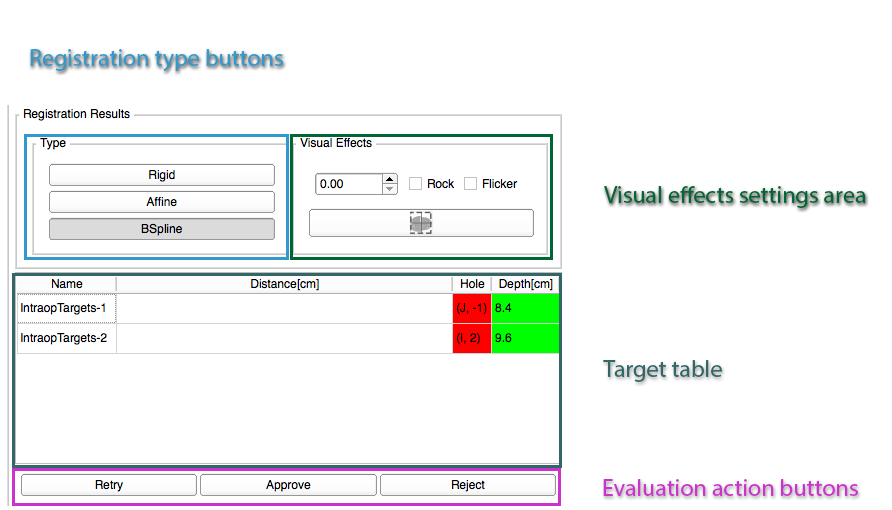
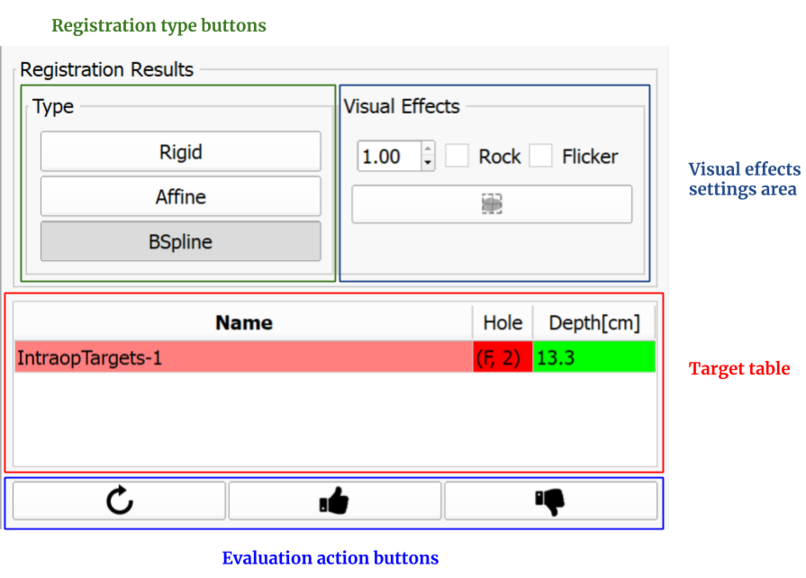
Creates assets/Slicer_gui_overview.png
Auto commit by GitBook Editor

Changed region(s): [[0.0, 0.0882, 0.9926, 1.0], [0.062, 0.0294, 0.3412, 0.0588]]

diff --git a/docs/user_guide/user_interface.md b/docs/user_guide/user_interface.md
@@ -4,7 +4,7 @@
 
 Once SliceTracker is opened, note the purpose of the various components of the application interface.
 
-![](../images/slicer_gui_overview.png)
+![](/assets/Slicer_gui_overview.png)
 
 1. **Main toolbar**: this area contains shortcut buttons for some of the general purpose functions of 3D Slicer
 
@@ -12,7 +12,7 @@ Once SliceTracker is opened, note the purpose of the various components of the a
 
 3. **Viewers**: configuration of this area, which contains combinations of 2-d/3-d viewer sub-areas, will be updated automatically depending on the specific step of the workflow. 
 
-4. **DataProbe panel**: this area can be used to check the coordinates of the cursor and the number of the currently visible slice.
+4. **Data Probe panel**: this area can be used to check the coordinates of the cursor and the number of the currently visible slice.
 
 5. **Progress reporting area**: in some steps of the workflow, this area will be used to report progress.
 
@@ -25,12 +25,12 @@ The overview mode allows user to create/load cases, trigger target tracking and 
 | User Interface Element | Description |
 | -- | -- |
 | Case/patient watch box | Displays information about the current patient, as well as relevant pre-operative and intra-operative imaging information. |
-| View options bar | Provides buttons for controlling the visibility of annotations, crosshair, Z-frame model, grid and computed needle path model. All supported layouts are available through buttons and a button is also included for `WindowLevelEffect`; for changing the window level with respect to fore -and background. ![View options bar](/assets/view_options.png)
+| View options bar | Provides buttons for controlling the visibility of annotations, crosshair, Z-frame model, and template grid. All supported layouts are available through buttons and a button is also included for `WindowLevelEffect`; for changing the window level with respect to fore -and background. A button for testing the DICOM connection is also available. ![View options bar](/assets/view_options.png)
 |
-| Case directory settings | This area includes a directory selector which represents the root directory for all cases. Furthermore when starting/loading a case, all directory information to that case are displayed in the directory watch box below the `Cases Root Directory` directory selector. |
+| Case directory settings | This area includes a directory selector which represents the root directory for all cases. Furthermore, when starting/loading a case, all directory information to that case are displayed in the directory watch box below the `Cases Root Directory` directory selector. |
 | Case action buttons | Action buttons for creating a new case, loading/continuing an existing case, or closing/completing a case. |
 | Training/Simulation area | These buttons simulate incoming transfer of DICOM images. It can be used for pre- and intra-procedural images. |
-| Target table | Once a case has been loaded and pre-procedural data has been processed, all set targets will be listed in that table. Additional to that, information about cursor distance, grid hole and depth for needle insertion are computed. |
+| Target table | Once a case has been loaded and pre-procedural data has been processed, all set targets will be listed in the table. Additionally, information about cursor distance, grid hole and depth for needle insertion are computed. |
 | Intra-procedural image selection/targeting | As soon as intra-procedural images are received and loaded, they will appear in the series selector combobox. Colors indicate the availability of registration results. Images can only be skipped in specific circumstances. `Cover Prostate` and `Cover Template` images cannot be skipped since they are essential for the whole process of registration. The buttons to the right of the selector are for allowing the user to change the series type, initiate tracking of targets, and skip the selected series, respectively. |
 
 ## Module settings
@@ -38,16 +38,17 @@ For accessing the module settings you will need to use ![](../images/Icons/icon-
 
 ![](/assets/module_settings.png)
 
-SliceTracker provides some module settings that needs to be changed in case of:
+SliceTracker provides some module settings that need to be changed in case of:
 * series description of the DICOM images differ from the one shown in the module settings
 * you want to use `demo mode` which hides patient specific information from SliceTracker (not yet from mpReview)
 * change the maximum rating score for registration results
 * you want to use a different color map 
+* you wish to change the segmentation method used
 
 ## Segmentation
-For initiating target tracking a segmentation mask needs to be created which covers the area of the prostate. The image below describes the user interface elements of that step.
+For initiating target tracking a segmentation mask needs to be created which covers the area of the prostate. The image below describes the user interface elements of that step (presented after segmentation if automatic segmentation is performed).
 
-![](../images/segmentation_interface.png)
+![](/assets/segmentation_interface.png)
 
 ## Registration evaluation 
 ![](../images/evaluation_interface.png)
@@ -55,6 +56,6 @@ For initiating target tracking a segmentation mask needs to be created which cov
 | User Interface Element | Description |
 | -- | -- |
 | Registration type buttons | All different registration types are available for viewing. The registration result is displayed according to the selected registration type.|
-| Visual effects settings area|<ul><li>Rock mode checkbox: Opacity value changes slowly between foreground and background. </li><li>Flicker mode checkbox: Opacity value changes flickers between foreground and background.</li><li>Reveal cursor button: Mode for directly comparing foreground and background volume</li></ul>|
-| Target table| The target table lists all targets that has been identified during pre-procedural preparation or during target initialization in intra-procedural data (if no pre-procedural data exists).<ul><li>Name: displays name of the target as set during target initialization</li><li>Distance (cm): displays distance x,y,z and 3D from cursor to target </li><li>Hole: displays optimal  grid hole computed for needle insertion in order to reach the target. <ul><li>Green: hole match in comparison to first planning/intraop registration computed hole</li><li>Red: hole mismatch comparing to first planning/intraop registration  computed hole</li></ul><li>Depth[cm]: displays the depth that the needle needs to be inserted for reaching the target position<ul><li>Green: depth match in comparison to first planning/intraop registration computed depth </li><li>Red: depth mismatch comparing to first planning/intraop registration computed Depth (difference > 0.5cm)</li>|
-| Evaluation action buttons| <ul><li>"Retry" button: If the registration result is not satisfying, the user has the choice to retry(re-segment) the prostate and so that the registration can be re-run with another segmentation. </li><li>"Approve" button: A satisfying registration result can be approved which triggers saving of the registration result and returning to the overview mode</li><li>"Reject" button: if the registration result is not satisfying at all (even after retrying) the user has the possibility to reject the registration result. Rejection will trigger saving of the registration results (for later reading) and returns to overview mode.</li></ul>|
+| Visual effects settings area|<ul><li>Rock mode checkbox: Opacity value changes slowly between foreground and background. </li><li>Flicker mode checkbox: Opacity value changes flicker between foreground and background.</li><li>Reveal cursor button: Mode for directly comparing foreground and background volume</li></ul>|
+| Target table| The target table lists all targets that have been identified during pre-procedural preparation or during target initialization in intra-procedural data (if no pre-procedural data exists).<ul><li>Name: displays name of the target as set during target initialization</li><li>Distance (cm): displays x,y,z and 3D distance from cursor to target </li><li>Hole: displays optimal  grid hole computed for needle insertion in order to reach the target. <ul><li>Green: hole match in comparison to first planning/intraop registration computed hole</li><li>Red: hole mismatch comparing to first planning/intraop registration  computed hole</li></ul><li>Depth[cm]: displays the depth that the needle needs to be inserted for reaching the target position<ul><li>Green: depth match in comparison to first planning/intraop registration computed depth </li><li>Red: depth mismatch comparing to first planning/intraop registration computed Depth (difference > 0.5cm)</li>|
+| Evaluation action buttons (left to right) | <ul><li>"Retry" button: If the registration result is not satisfying, the user has the choice to retry(re-segment) the prostate (manual or automatic) and so that the registration can be re-run with another segmentation. </li><li>"Approve" button: A satisfying registration result can be approved which triggers saving of the registration result and returning to the overview mode</li><li>"Reject" button: if the registration result is not satisfactory (even after retrying) the user has the possibility to reject the registration result. Rejection will trigger saving of the registration results (for later reading) and returns to overview mode.</li></ul>|
